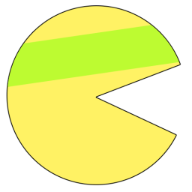
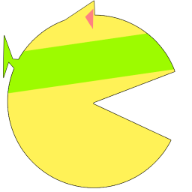
Add files via upload

diff --git a/game.js b/game.js
@@ -17,6 +17,16 @@ document.body.appendChild(canvas);
 canvas.width = CANVAS_WIDTH;
 canvas.height = CANVAS_HEIGHT;
 
+// Завантаження зображень для Пакмена
+const headImage = new Image();
+headImage.src = 'head.png'; // Верхня щелепа (вправо, вниз, вгору)
+const butImage = new Image();
+butImage.src = 'but.png';   // Нижня щелепа (вправо, вниз, вгору)
+const headbImage = new Image();
+headbImage.src = 'headb.png'; // Верхня щелепа (вліво)
+const butbImage = new Image();
+butbImage.src = 'butb.png';   // Нижня щелепа (вліво)
+
 // Адаптація розміру canvas
 function resizeCanvas() {
     const scale = Math.min(window.innerWidth / CANVAS_WIDTH, window.innerHeight / CANVAS_HEIGHT);
@@ -449,26 +459,40 @@ function drawMap() {
 }
 
 function drawPlayer() {
-    ctx.fillStyle = 'yellow';
-    ctx.beginPath();
     const playerX = player.x * TILE_SIZE + TILE_SIZE / 2;
     const playerY = player.y * TILE_SIZE + TILE_SIZE / 2;
+    const mouthAngle = Math.max(0, Math.sin(player.mouth)) * (Math.PI / 4);
 
-    const mouthAngle = Math.sin(player.mouth) * (Math.PI / 4);
-    let baseAngle;
+    // Вибираємо зображення залежно від напрямку
+    const headImg = player.direction === 2 ? headbImage : headImage;
+    const butImg = player.direction === 2 ? butbImage : butImage;
+
+    ctx.save();
+    ctx.translate(playerX, playerY);
     switch (player.direction) {
-        case 0: baseAngle = 0; break;
-        case 1: baseAngle = Math.PI / 2; break;
-        case 2: baseAngle = Math.PI; break;
-        case 3: baseAngle = 3 * Math.PI / 2; break;
+        case 0: ctx.rotate(0); break;           // Вправо
+        case 1: ctx.rotate(Math.PI / 2); break; // Вниз
+        case 2: ctx.rotate(Math.PI); break;     // Вліво
+        case 3: ctx.rotate(3 * Math.PI / 2); break; // Вгору
     }
 
-    const startAngle = baseAngle + mouthAngle;
-    const endAngle = baseAngle - mouthAngle + 2 * Math.PI;
+    // Нижня щелепа: малюється першою
+    ctx.save();
+    ctx.translate(0, 0);
+    ctx.rotate(mouthAngle);
+    ctx.drawImage(butImg, -TILE_SIZE / 2, 0, TILE_SIZE, TILE_SIZE / 2);
+    ctx.restore();
 
-    ctx.arc(playerX, playerY, TILE_SIZE / 2, startAngle, endAngle);
-    ctx.lineTo(playerX, playerY);
-    ctx.fill();
+    // Верхня щелепа: малюється другою, щоб бути зверху
+    ctx.save();
+    ctx.translate(0, -TILE_SIZE / 2);
+    ctx.translate(0, TILE_SIZE / 2);
+    ctx.rotate(-mouthAngle);
+    ctx.translate(0, -TILE_SIZE / 2);
+    ctx.drawImage(headImg, -TILE_SIZE / 2, 0, TILE_SIZE, TILE_SIZE / 2);
+    ctx.restore();
+
+    ctx.restore();
 }
 
 function drawGhosts() {
@@ -546,6 +570,13 @@ function gameLoop() {
     requestAnimationFrame(gameLoop);
 }
 
-// Запуск гри
-resetGame();
-gameLoop();
+// Перевірка, чи завантажилися зображення перед запуском гри
+Promise.all([
+    new Promise(resolve => headImage.onload = resolve),
+    new Promise(resolve => butImage.onload = resolve),
+    new Promise(resolve => headbImage.onload = resolve),
+    new Promise(resolve => butbImage.onload = resolve)
+]).then(() => {
+    resetGame();
+    gameLoop();
+}).catch(err => console.error('Failed to load images:', err));
